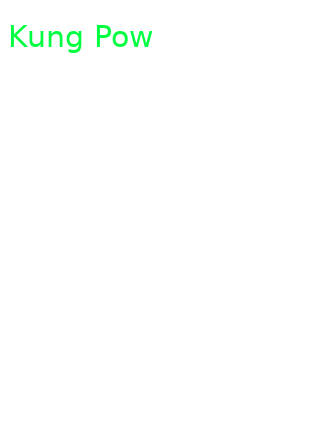
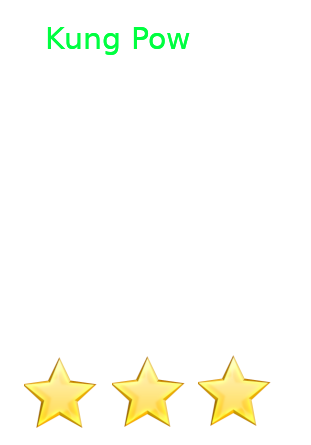
added stars and improve debug

diff --git a/Second Project/main.py b/Second Project/main.py
@@ -18,6 +18,7 @@ imgTarget = database.get_imgTarget()
 imgTarget2 = database.get_imgTarget2()
 imgOverlay = database.get_imgTarget_overlay()
 imgOverlay2 = database.get_imgTarget_overlay2()
+
 cube = database.get_cube()
 
 hT, wT, cT = imgTarget.shape
@@ -30,6 +31,18 @@ kp2, des2 = orb.detectAndCompute(imgTarget2, None)
 if debug:
     imgPoints = cv2.drawKeypoints(imgTarget, kp1, None)              #//debug poster keypoints
     imgPoints2 = cv2.drawKeypoints(imgTarget2, kp2, None)
+
+def draw(img, corners, imgpts):
+    imgpts = np.int32(imgpts).reshape(-1,2)
+    # draw ground floor in green
+    img = cv2.drawContours(img, [imgpts[:4]],-1,(0,255,0),-3)
+    # draw pillars in blue color
+    for i,j in zip(range(4),range(4,8)):
+        img = cv2.line(img, tuple(imgpts[i]), tuple(imgpts[j]),(255),3)
+    # draw top layer in red color
+    img = cv2.drawContours(img, [imgpts[4:]],-1,(0,0,255),3)
+    return img
+
 
 # stackImages
 def stackImages(imgArray,scale,lables=[]):
@@ -110,6 +123,7 @@ while True:
                 print("Matrix poster 1")
                 print(matrix)
 
+
         if len(good2) > 20:
             srcPts2 = np.float32([kp2[m.queryIdx].pt for m in good2]).reshape(-1, 1, 2)
             dstPts2 = np.float32([kpW[m.trainIdx].pt for m in good2]).reshape(-1, 1, 2)
@@ -131,15 +145,15 @@ while True:
             imgWarp2 = cv2.warpPerspective(imgOverlay2, matrix2, (imgWebcam.shape[1], imgWebcam.shape[0]))
             imgAug2 = cv2.bitwise_or(imgWarp2, imgAug2)
             imgWebcam = cv2.bitwise_or(imgWarp2, imgWebcam)
+
             if debug:
                 img2 = cv2.polylines(imgAug2, [np.int32(dst2)], True, (255, 0, 255), 3)
 
         if debug and len(good) > 20 and len(good2) > 20:
-            imgStacked = stackImages(([imgFeatures, imgPoints, img], [imgFeatures2, imgPoints2, img2]), 0.5)
-
-
-        if debug and len(good) > 20 and len(good2) > 20:
+            imgStacked = stackImages(([imgFeatures, imgPoints], [imgFeatures2, imgPoints2]), 0.5)
+            imgStacked2 = stackImages(([imgWarp, img], [imgWarp2, img2]), 0.5)
             cv2.imshow('stack', imgStacked)                                                                 #//DEBUG MODE STACKED
+            cv2.imshow('stack2', imgStacked2)
 
     cv2.imshow('Poster', imgTarget)
     cv2.imshow('Poster2', imgTarget2)

diff --git a/Second Project/preparation.py b/Second Project/preparation.py
@@ -47,6 +47,8 @@ class Webcam:
                 # Each element is he number of points in each view. The elements should all be the same and equal to the number of feature points on the calibration pattern
                 ret, mtx, dist, rvecs, tvecs = cv2.calibrateCamera(objpoints, imgpoints, gray.shape[::-1], None, None,
                                                                    criteria)
+                np.savez('camera_matrix', mtx=mtx, dist=dist, rvecs=rvecs, tvecs=tvecs)
+
                 cv2.waitKey(500)
 
         img = cv2.imread(IMAGE_PATH)
@@ -84,7 +86,7 @@ class Database:
         self.imgTarget = cv2.imread('kung_pow.png')
         self.imgOverlay2 = cv2.imread('lord_of_rings_fellowship_text.png')
         self.imgOverlay = cv2.imread('kung_pow_text.png')
-        self.imgCube = cv2.imread('cube.png')
+        self.imgCube = cv2.imread('kung_pow_text.png')
         self.target_score = 5
         self.target2_score = 3
 
